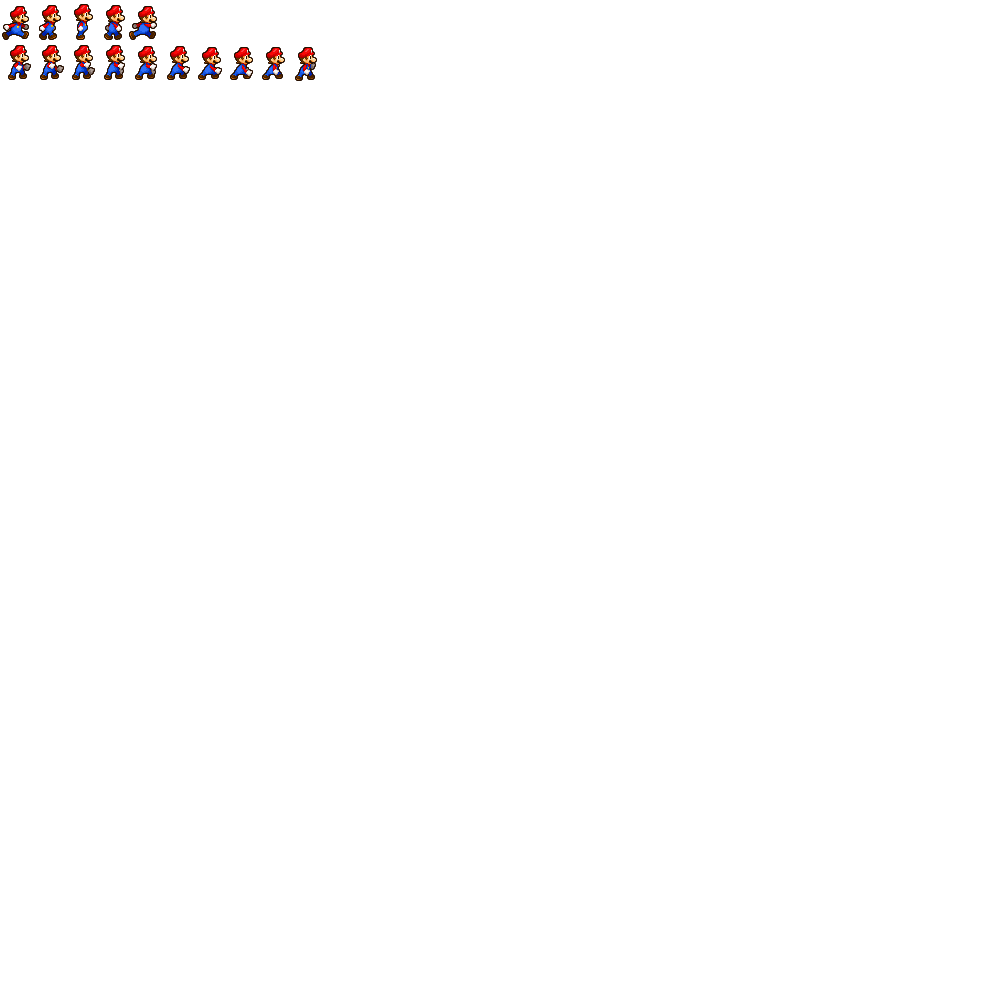
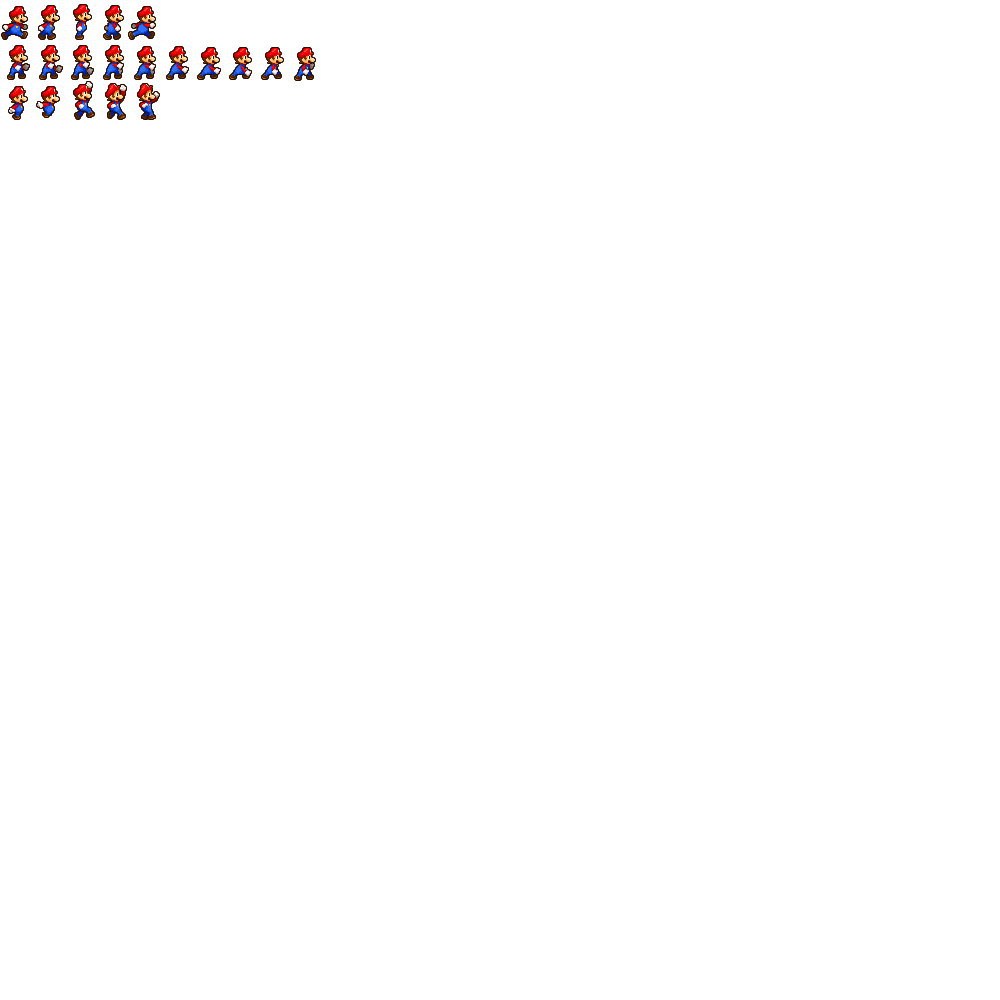
마리오 점프 구현

Changed region(s): [[0.0, 0.0, 0.31, 0.124]]

diff --git a/newSuperMario/move.py b/newSuperMario/move.py
@@ -1,15 +1,19 @@
 from pico2d import *
 
 class hero:
-
-    def __init__(self, d, h, s, f, fd, x):
-        self.dir = d
-        self.herodir = h
-        self.speed = s
-        self.frame = f
-        self.framedir = fd
+    dir = 0
+    herodir = 0
+    status = 0
+    speed = 0
+    frame = 0
+    framedir = 0
+    py = 0
+    jump_power = 100
+    g = 1.0
+    ga = 0.01
+    def __init__(self,x, y):
         self.x = x
-
+        self.y = y
     def handle_events(self):
         global running
 
@@ -20,8 +24,20 @@ class hero:
             elif event.type == SDL_KEYDOWN:
                 if event.key == SDLK_RIGHT:
                     self.dir += 1
+                    self.frame = 0
+                    self.framedir = 0
                 elif event.key == SDLK_LEFT:
                     self.dir -= 1
+                    self.frame = 0
+                    self.framedir = 0
+                elif event.key == SDLK_UP and self.status == 0:
+                    self.g = 0.01
+                    self.py = self.y
+                    self.status = 1
+                    self.frame = 0
+                    self.framedir = 0
+                elif event.key == SDLK_DOWN:
+                    self.status = 0
                 elif event.key == SDLK_ESCAPE:
                     running = False
             elif event.type == SDL_KEYUP:
@@ -34,40 +50,76 @@ class hero:
         pass
 
     def sprites(self):
-        if self.dir == 0:  # 정지
-            if self.herodir == 1:
-                character.clip_draw(self.frame * 32, 960 - 40, 32, 40, self.x, 90)
-            else:
-                character.clip_composite_draw(self.frame * 32, 960 - 40, 32, 40, 0, 'h', self.x, 90, 32, 40)
-        elif self.dir == 1:  # 오른쪽 걸음
-            character.clip_draw(self.frame * 32, 960, 32, 40, self.x, 90)
-        elif self.dir == -1:  # 왼쪽 걸음
-            character.clip_composite_draw(self.frame * 32, 960, 32, 40, 0, 'h', self.x, 90, 32, 40)
+        if self.status != 0: # 점프 등의 특수 상태
+           if self.dir == 0:  # 정지
+               if self.herodir == 1:
+                   character.clip_draw(self.frame * 32, 960 - 2 * 40, 32, 40, self.x, self.y, 64, 80)
+               else:
+                   character.clip_composite_draw(self.frame * 32, 960 - 2 * 40, 32, 40, 0, 'h', self.x, self.y, 64, 80)
+           if self.dir == 1:
+               character.clip_draw(self.frame * 32, 960 - 2 * 40, 32, 40, self.x, self.y, 64, 80)
+           elif self.dir == -1:
+               character.clip_composite_draw(self.frame * 32, 960 - 2 * 40, 32, 40, 0, 'h', self.x, self.y, 64, 80)
+        else: # 기본 이동 스프라이트
+           if self.dir == 0:  # 정지
+               if self.herodir == 1:
+                   character.clip_draw(self.frame * 32, 960 - 40, 32, 40, self.x, self.y, 64, 80)
+               else:
+                   character.clip_composite_draw(self.frame * 32, 960 - 40, 32, 40, 0, 'h', self.x, self.y, 64, 80)
+           elif self.dir == 1:  # 오른쪽 걸음
+               character.clip_draw(self.frame * 32, 960, 32, 40, self.x, self.y, 64, 80)
+           elif self.dir == -1:  # 왼쪽 걸음
+               character.clip_composite_draw(self.frame * 32, 960, 32, 40, 0, 'h', self.x, self.y, 64, 80)
+
+
+
 
         self.speed = (self.speed + 1) % 2
+
+
         if self.framedir == 0:
             self.frame = self.frame + self.speed
-            if self.frame >= 4:
-                self.framedir = 1
+            if self.status == 1 or self.status == -1:
+                if self.frame > 4:
+                    self.frame = self.frame - self.speed
+            elif self.dir == -1 or self.dir == 1:  # 나머지 프레임
+                if self.frame >= 4:
+                    self.framedir = 1
+            elif self.dir == 0 and self.status == 0:
+                if self.frame >= 9: # 정지 프레임
+                    self.frame = 0
         else:
             self.frame = self.frame - self.speed
             if self.frame == 0:
                 self.framedir = 0
 
     def move(self):
+        if self.status == 1:
+            self.y = (1 - self.g)*self.py + self.g*(self.py+ 200)
+            self.g += 0.1
+            if self.g >= 1.0:
+                self.status = -1
+        elif self.status == -1:
+            self.y = (1 - self.g)*self.py + self.g*(self.py+ 200)
+            self.g -= 0.1
+            if self.g <= 0.0:
+                self.status = 0
+
+
+
         self.x += self.dir * 5
 
     pass
 
 
 
-open_canvas()
+open_canvas(1024, 800)
 
 character = load_image('MarioMove.png')
 
 running = True
 
-mario = hero(0, 0, 0, 0, 0, 800 // 2)
+mario = hero(800 // 2, 90)
 
 while running:
     clear_canvas()
@@ -79,7 +131,7 @@ while running:
     mario.handle_events()
     mario.move()
 
-    delay(0.04)
+    delay(0.025)
 
 close_canvas()
 
